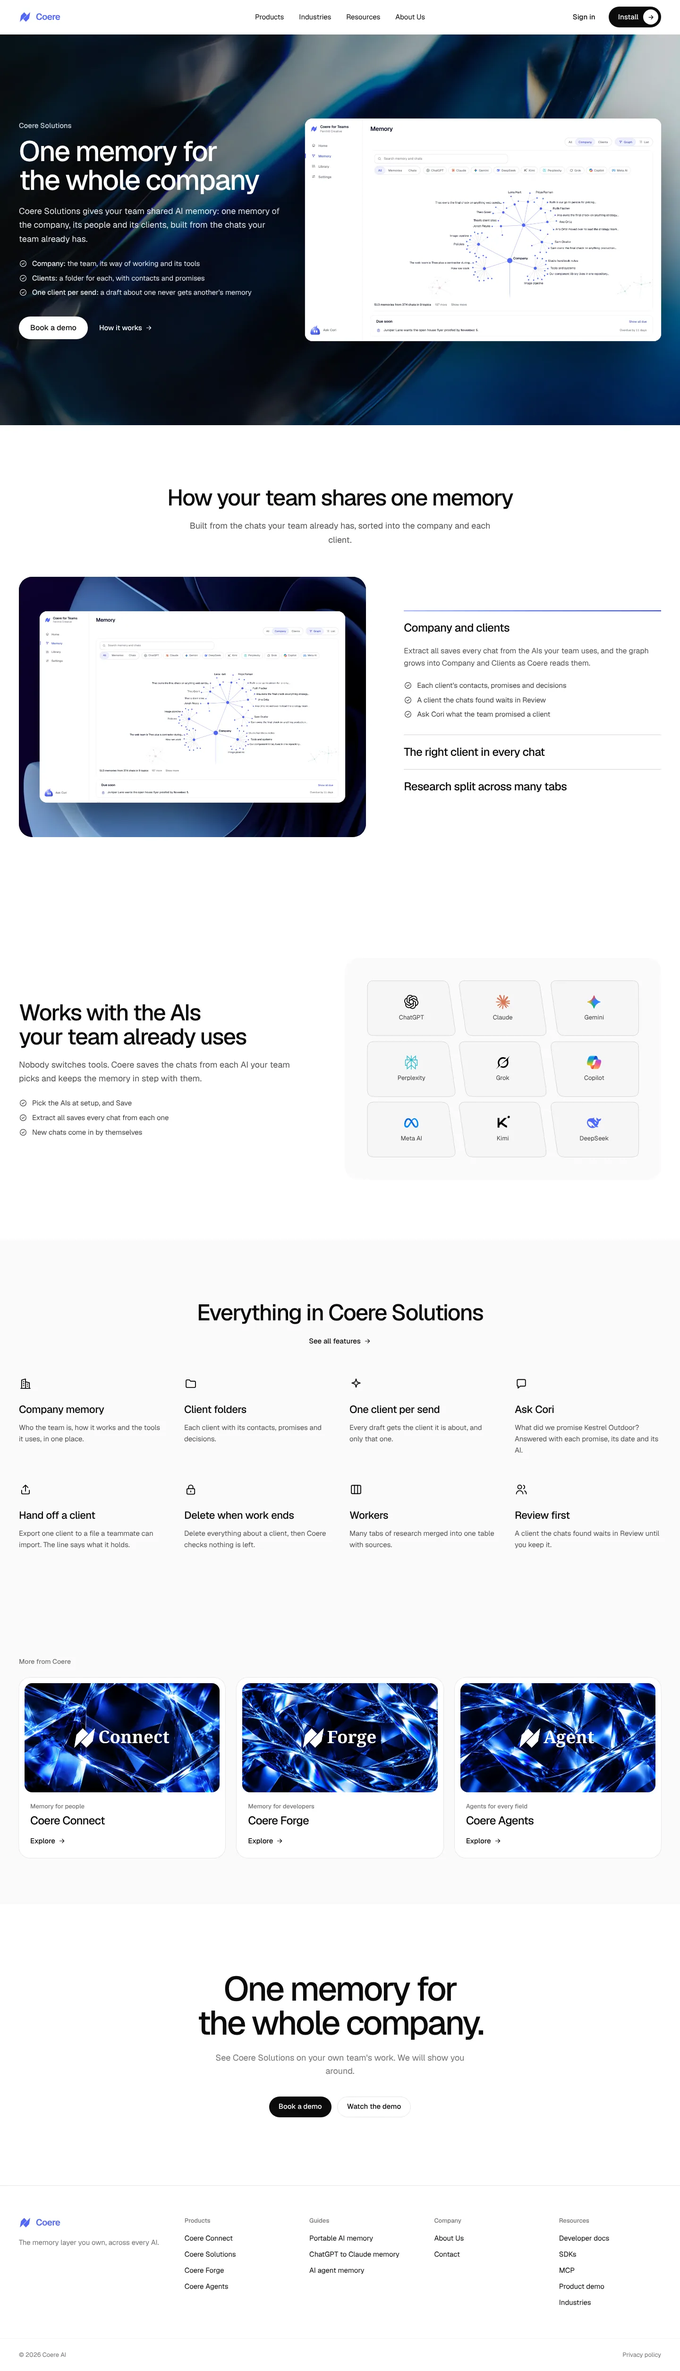
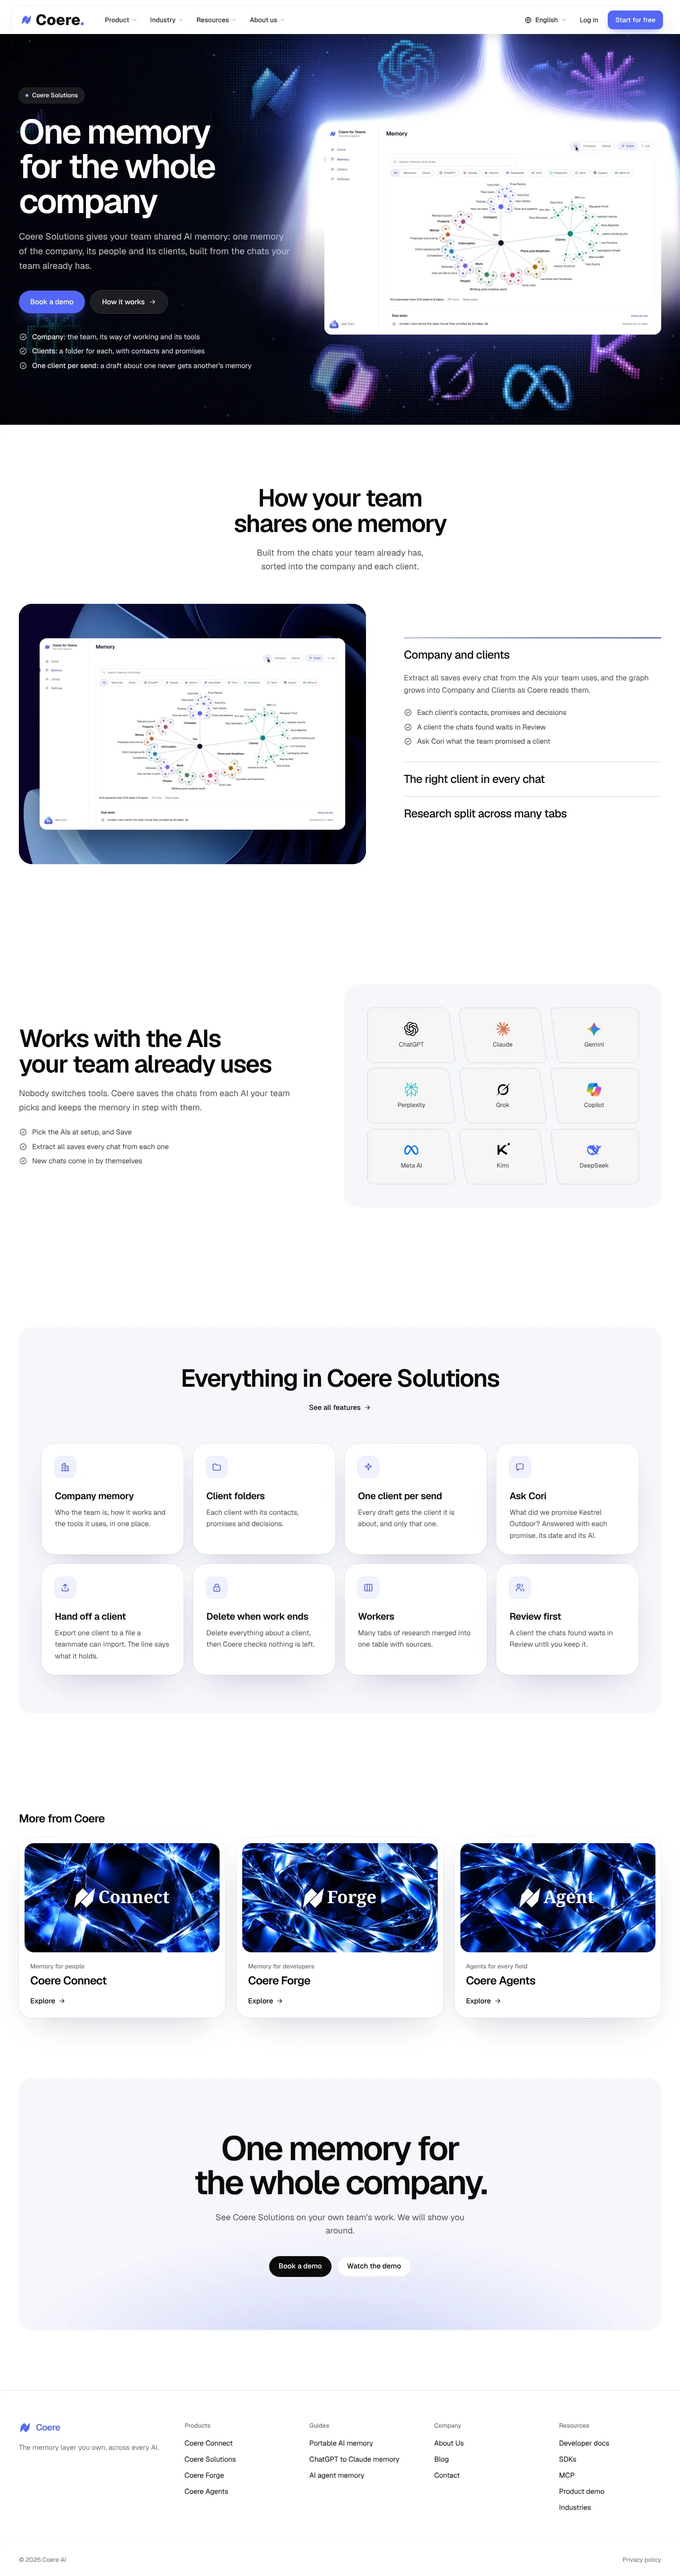
Retake the Coere Solutions picture on its pixel wall
The hero now sits on the LED wall of AI logos, so the README picture and its alt text show it.

Claude-Session: https://claude.ai/code/session_01Ur6uqNCXa3ecJ23BnM9D9o

diff --git a/docs/screenshots/site/README.md b/docs/screenshots/site/README.md
@@ -27,7 +27,7 @@ The whole page: [home.webp](home.webp).
 
 | | |
 |---|---|
-| <img src="product-connect.webp" alt="The Coere Connect page from its hero down: features by tab, the same chat with 97.7% fewer tokens, everything in Coere Connect, why people choose it and the other products" /><br /><sub>Coere Connect</sub> | <img src="product-solutions.webp" alt="The Coere Solutions page from its hero down" /><br /><sub>Coere Solutions</sub> |
+| <img src="product-connect.webp" alt="The Coere Connect page from its hero down: features by tab, the same chat with 97.7% fewer tokens, everything in Coere Connect, why people choose it and the other products" /><br /><sub>Coere Connect</sub> | <img src="product-solutions.webp" alt="The Coere Solutions page from its hero down: the hero on a dark LED wall of AI logos drawn in small square pixels round the dashboard, how a team shares one memory, the AIs it works with, everything in Coere Solutions and the other products" /><br /><sub>Coere Solutions</sub> |
 | <img src="product-forge.webp" alt="The Coere Forge page from its hero down" /><br /><sub>Coere Forge</sub> | <img src="product-agents.webp" alt="The Coere Agents page from its hero down" /><br /><sub>Coere Agents</sub> |
 | <img src="phone-product-connect.webp" width="195" alt="The Coere Connect page's first screen at phone width" /><br /><sub>Coere Connect at 390 wide</sub> | |
 
